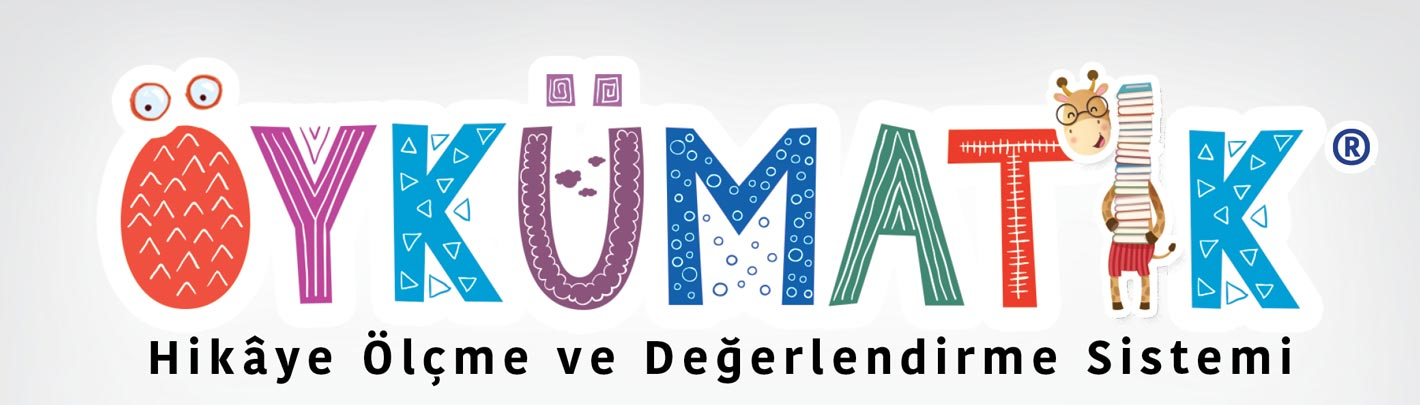
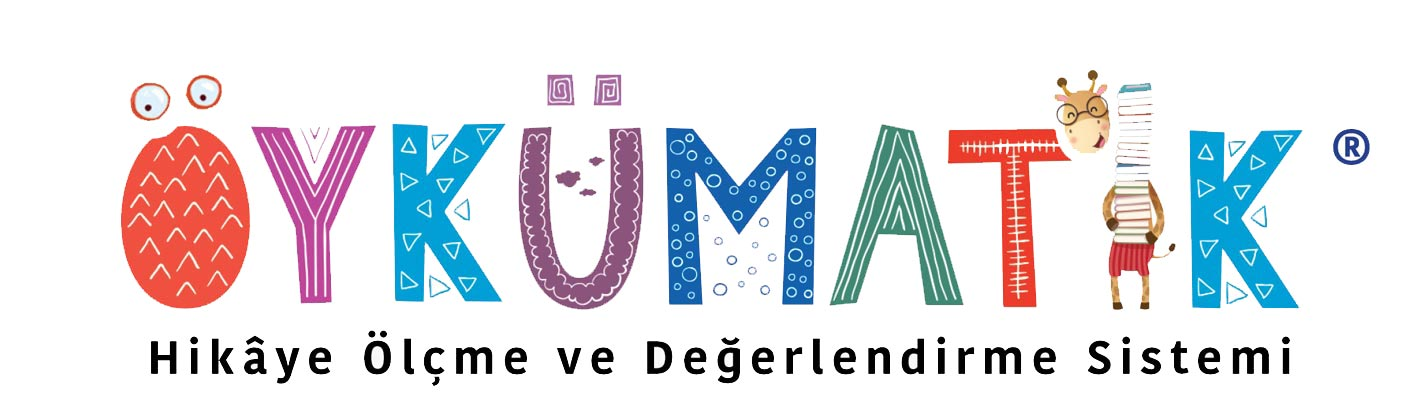
post güncelleme

diff --git a/index.html b/index.html
@@ -59,7 +59,7 @@ description: "Çocuklara Okumayı Sevdiren Yayınevi..."
                 <a href="{{site.baseurl}}{{post.url}}" class="btn btn-dark">Devamını oku</a>
             </div>
             <div class="col-md-6 d-none d-md-block pr-0" style="background-size:cover;">
-                <img src="/assets/images/posts/oykumatikle-tanisin.jpg" alt="">	
+                <img src="{{site.baseurl}}{{post.image}}" alt="">	
             </div>
         </div>
     </div>

diff --git a/_posts/2021-11-23-oykumatikle-tanisin.md b/_posts/2021-11-23-oykumatikle-tanisin.md
@@ -3,7 +3,7 @@ layout: post
 title:  "Öykümatikle Tanışın"
 authors: [""]
 categories: [  ]
-image: assets/images/posts/oykumatikle-tanisin.jpg
+image: assets/images/posts/oykumatikle-tanisin.png
 tags: []
 sticky: true
 featured: false
